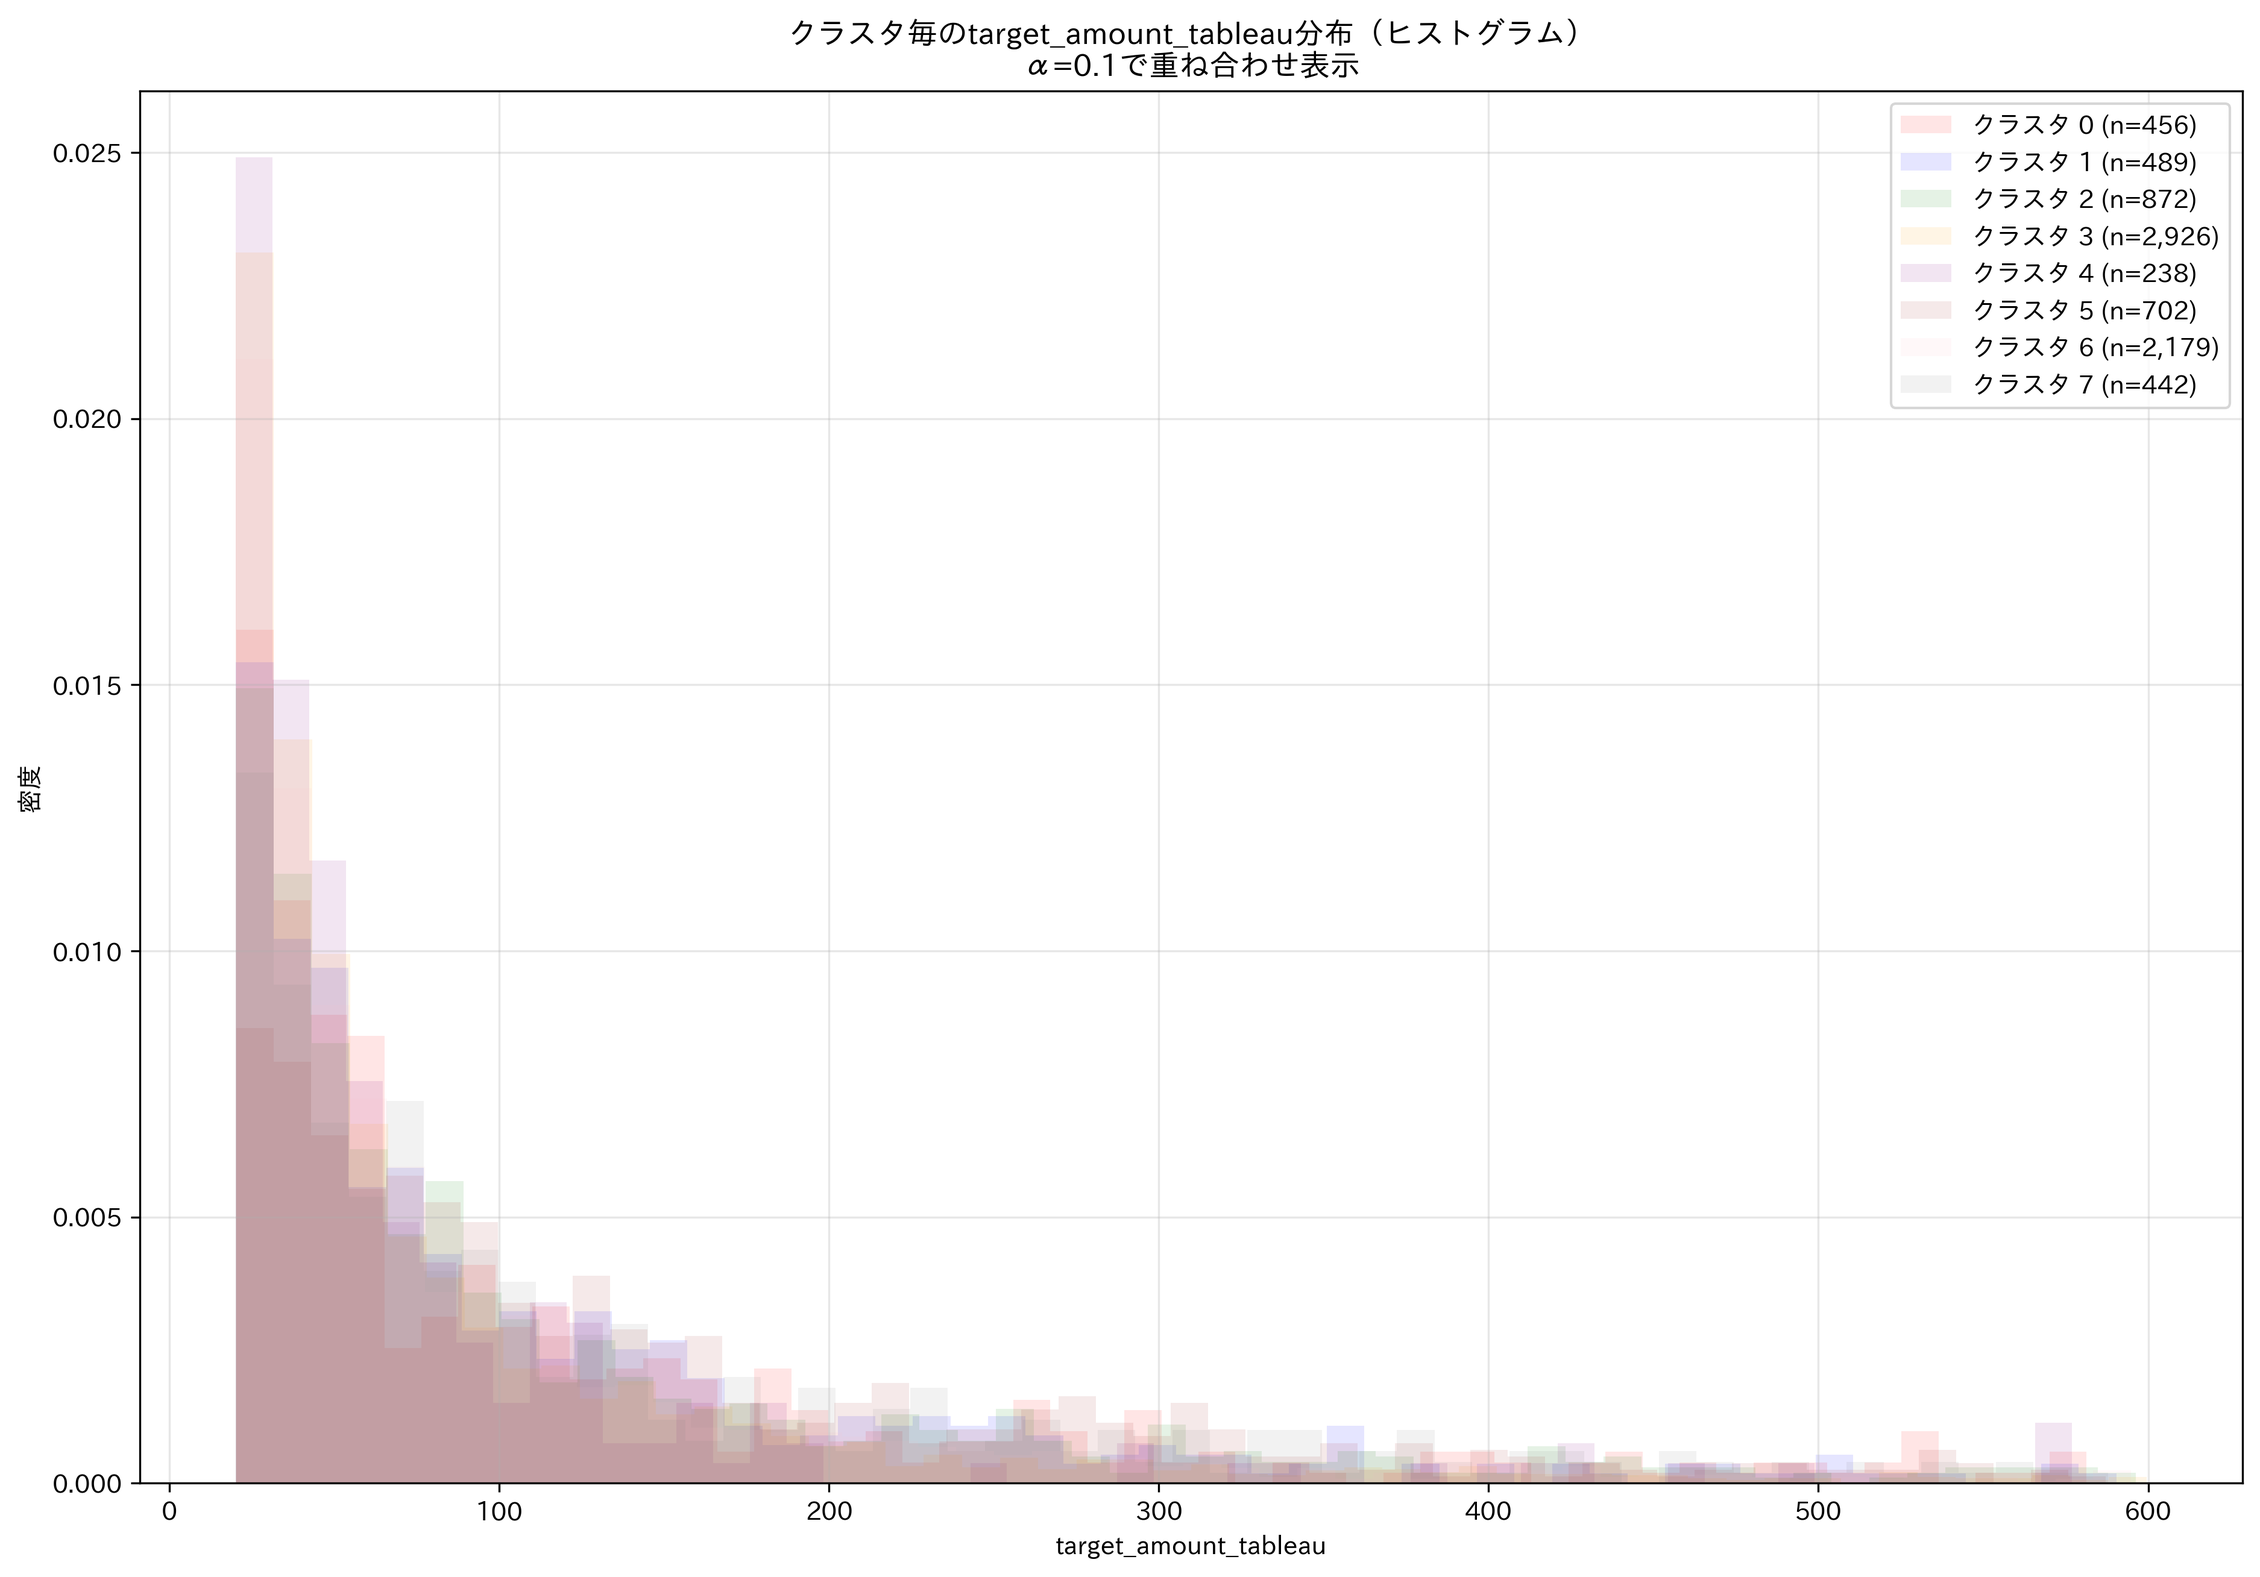
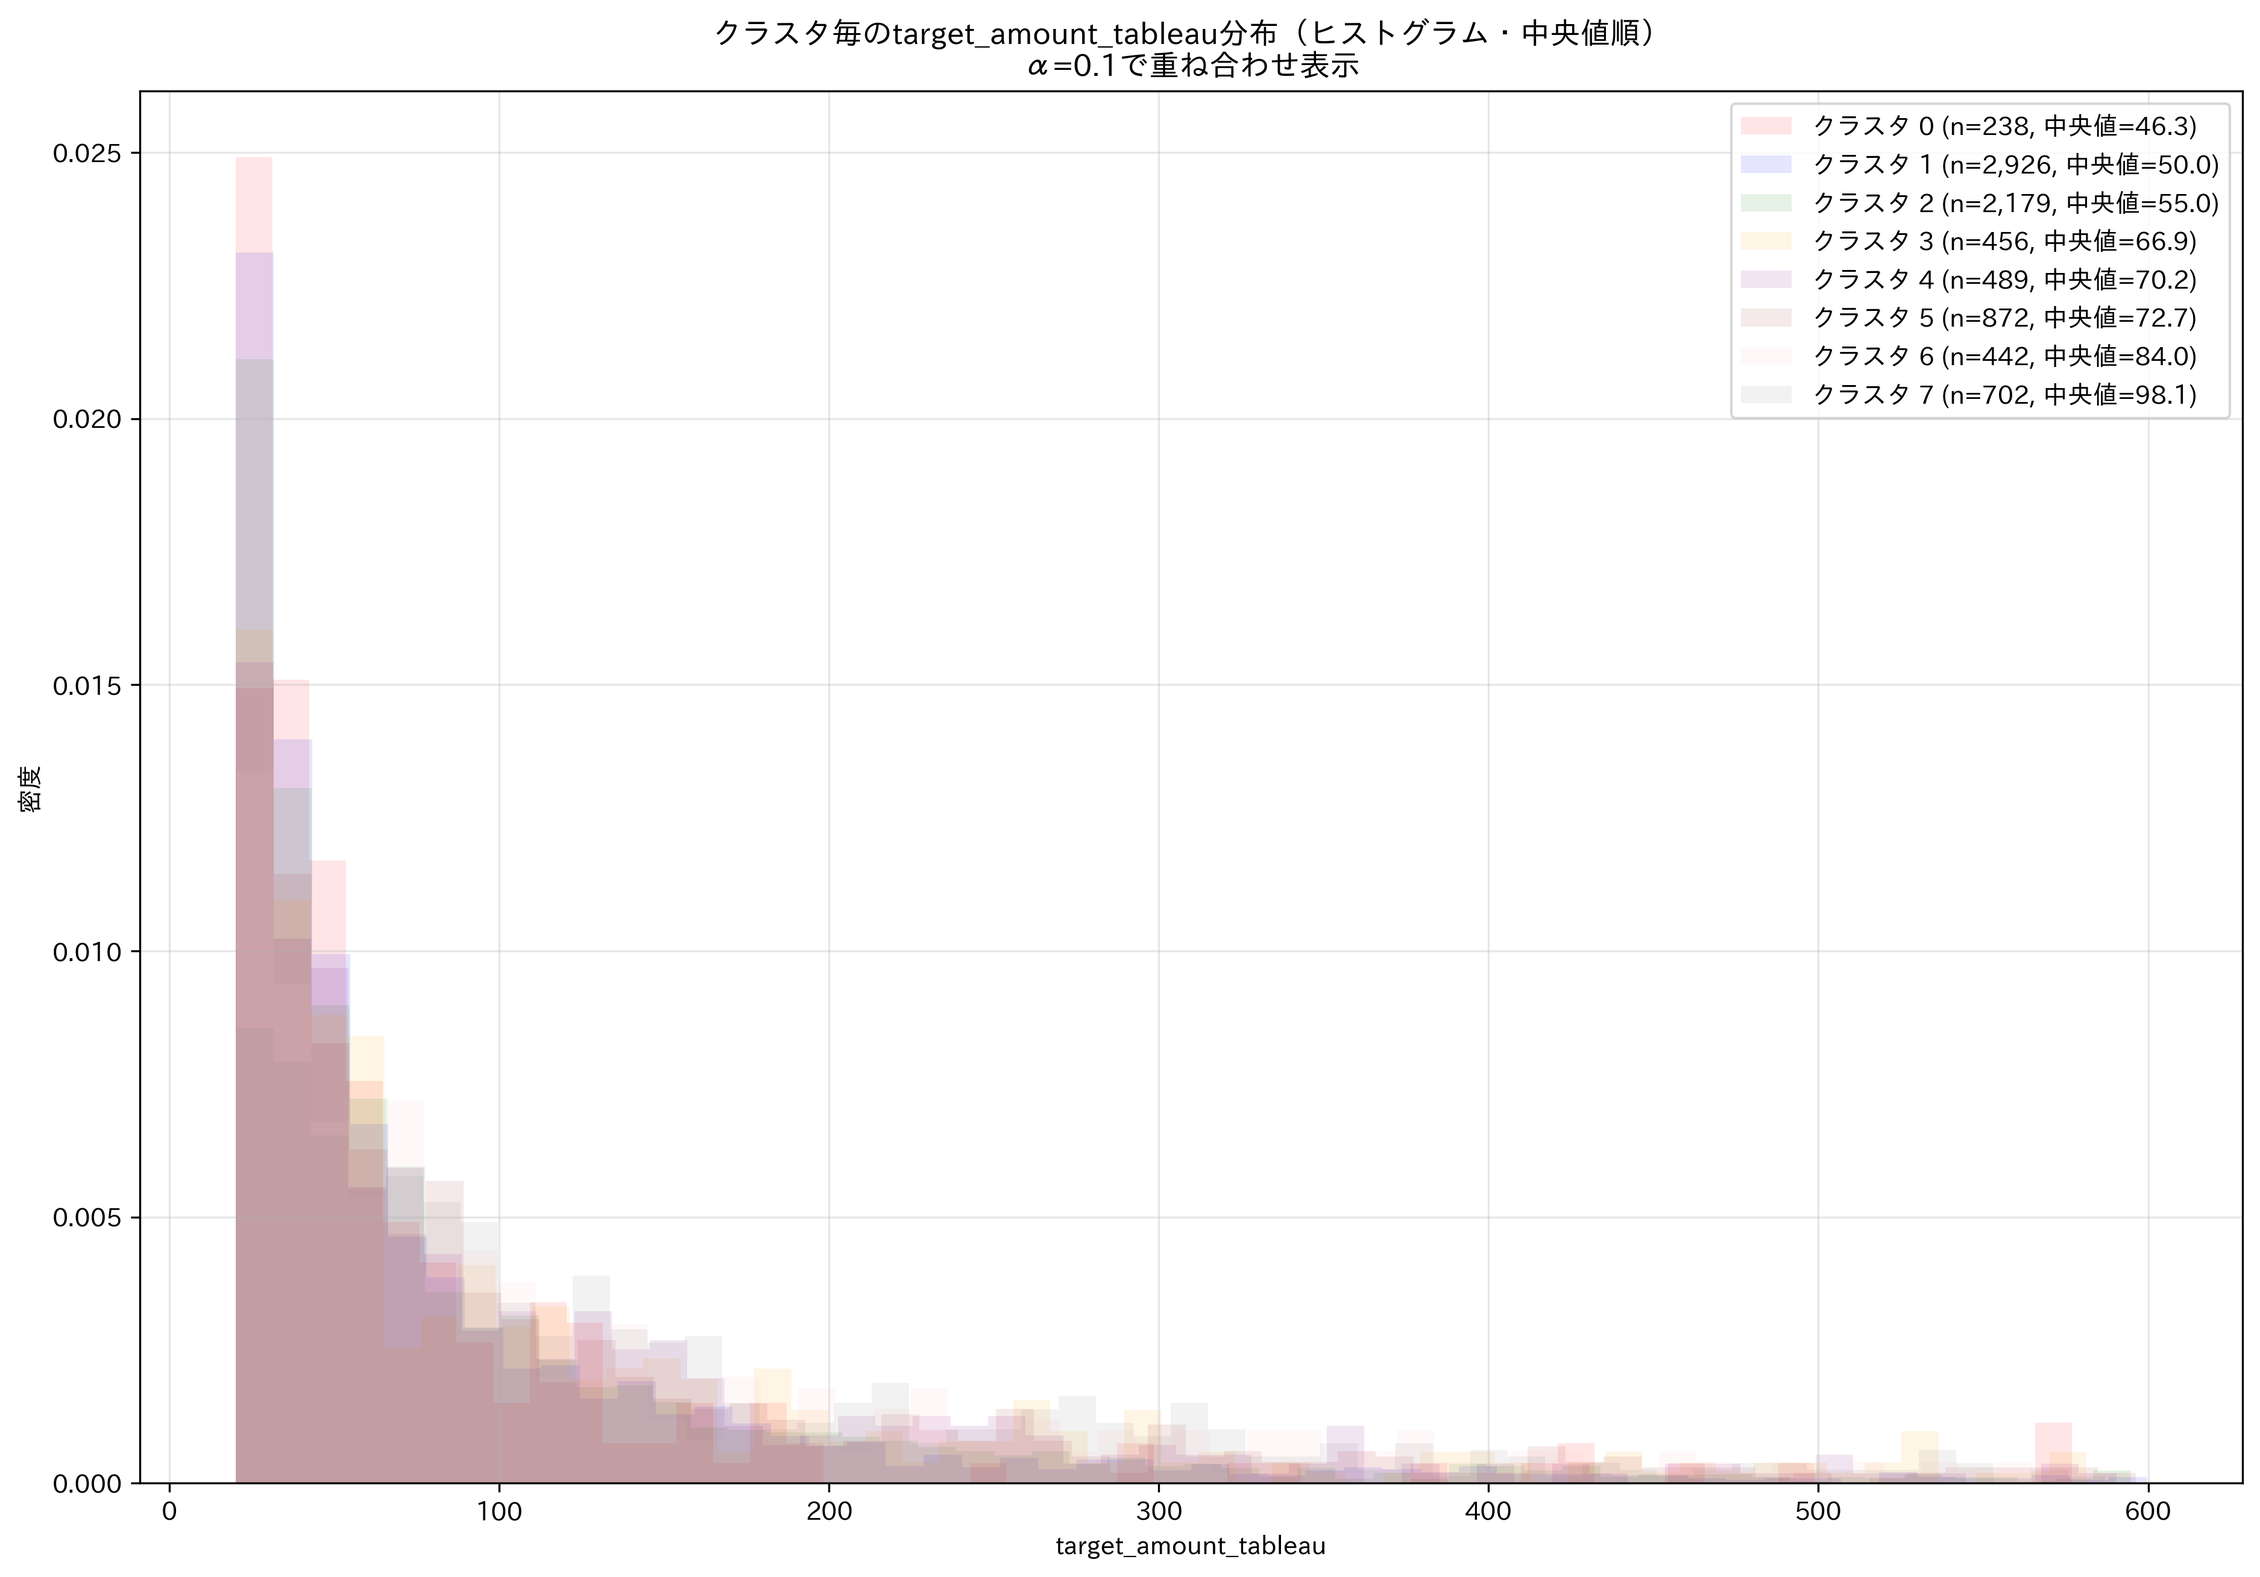
Update cluster analysis with median-sorted clusters and renumbered outputs

diff --git a/cluster_analysis.py b/cluster_analysis.py
@@ -236,10 +236,25 @@ def calculate_percentile_stats(series):
         'max': series.max()
     }
 
-# 各クラスタの統計情報を計算（範囲別）
+# 各クラスタの中央値を計算してソート順を決定
+cluster_medians = df_analysis.groupby('cluster')['target_amount_tableau'].median().sort_values()
+print(f"\n各クラスタの中央値（ソート順）:")
+for cluster_id, median_val in cluster_medians.items():
+    print(f"  クラスタ {cluster_id}: 中央値 = {median_val:.2f}")
+
+# 中央値が小さい順に新しいクラスタ番号を割り当て
+median_rank = {original_id: new_id for new_id, original_id in enumerate(cluster_medians.index)}
+print(f"\n新しいクラスタ番号の割り当て:")
+for original_id, new_id in median_rank.items():
+    print(f"  元クラスタ {original_id} → 新クラスタ {new_id}")
+
+# 新しいクラスタ番号をデータフレームに追加
+df_analysis['cluster_renumbered'] = df_analysis['cluster'].map(median_rank)
+
+# 各クラスタの統計情報を計算（範囲別）- 新しい番号順で
 cluster_range_stats = {}
-for cluster_id in sorted(df_analysis['cluster'].unique()):
-    cluster_data = df_analysis[df_analysis['cluster'] == cluster_id]
+for cluster_id in sorted(df_analysis['cluster_renumbered'].unique()):
+    cluster_data = df_analysis[df_analysis['cluster_renumbered'] == cluster_id]
     cluster_range_stats[cluster_id] = {}
     
     # 各範囲での統計を計算
@@ -248,10 +263,12 @@ for cluster_id in sorted(df_analysis['cluster'].unique()):
         if len(range_data) > 0:
             cluster_range_stats[cluster_id][range_name] = calculate_percentile_stats(range_data)
 
-# 結果を整理して表示
-print("\n各クラスタ・範囲別のtarget_amount_tableau統計情報:")
+# 結果を整理して表示（新しい番号順）
+print("\n各クラスタ・範囲別のtarget_amount_tableau統計情報（中央値順）:")
 for cluster_id in sorted(cluster_range_stats.keys()):
-    print(f"\n【クラスタ {cluster_id}】")
+    cluster_data = df_analysis[df_analysis['cluster_renumbered'] == cluster_id]
+    median_val = cluster_data['target_amount_tableau'].median()
+    print(f"\n【クラスタ {int(cluster_id)}】（中央値: {median_val:.2f}）")
     for range_name in sorted(cluster_range_stats[cluster_id].keys()):
         stats = cluster_range_stats[cluster_id][range_name]
         print(f"  {range_name}: データ数={stats['データ数']:,}, 平均={stats['平均']:.2f}, 中央値={stats['中央値']:.2f}")
@@ -266,12 +283,12 @@ for range_name in sorted(df['amount_range'].unique()):
         stats = overall_range_stats[range_name]
         print(f"{range_name}: データ数={stats['データ数']:,}, 平均={stats['平均']:.2f}, 中央値={stats['中央値']:.2f}")
 
-# 統計情報をCSVファイルに保存
-# クラスタ別統計
+# 統計情報をCSVファイルに保存（新しい番号順）
+# クラスタ別統計（新しい番号順）
 cluster_stats_df = pd.DataFrame()
-for cluster_id in sorted(df_analysis['cluster'].unique()):
-    cluster_data = df_analysis[df_analysis['cluster'] == cluster_id]['target_amount_tableau']
-    cluster_stats_df[f'クラスタ_{cluster_id}'] = calculate_percentile_stats(cluster_data)
+for cluster_id in sorted(df_analysis['cluster_renumbered'].unique()):
+    cluster_data = df_analysis[df_analysis['cluster_renumbered'] == cluster_id]['target_amount_tableau']
+    cluster_stats_df[f'クラスタ_{int(cluster_id)}'] = calculate_percentile_stats(cluster_data)
 
 cluster_stats_df.to_csv(os.path.join(results_folder, 'cluster_target_amount_stats.csv'), encoding='utf-8-sig')
 print(f"\nクラスタ統計情報を '{results_folder}/cluster_target_amount_stats.csv' に保存しました。")
@@ -280,6 +297,19 @@ print(f"\nクラスタ統計情報を '{results_folder}/cluster_target_amount_st
 range_stats_df = pd.DataFrame(overall_range_stats).T
 range_stats_df.to_csv(os.path.join(results_folder, 'range_target_amount_stats.csv'), encoding='utf-8-sig')
 print(f"範囲別統計情報を '{results_folder}/range_target_amount_stats.csv' に保存しました。")
+
+# クラスタ番号変更マッピングを保存
+mapping_df = pd.DataFrame({
+    '元クラスタ番号': list(median_rank.keys()),
+    '新クラスタ番号': list(median_rank.values()),
+    '中央値': [df_analysis[df_analysis['cluster'] == orig_id]['target_amount_tableau'].median() 
+               for orig_id in median_rank.keys()],
+    'データ数': [len(df_analysis[df_analysis['cluster'] == orig_id]) 
+                for orig_id in median_rank.keys()]
+}).sort_values('新クラスタ番号')
+
+mapping_df.to_csv(os.path.join(results_folder, 'cluster_renumbering_mapping.csv'), index=False, encoding='utf-8-sig')
+print(f"クラスタ番号変更マッピングを '{results_folder}/cluster_renumbering_mapping.csv' に保存しました。")
 
 # 各クラスタの分布を可視化（範囲別）
 fig, axes = plt.subplots(2, 2, figsize=(15, 12))
@@ -300,66 +330,70 @@ axes[0,1].set_xlabel('target_amount_tableau')
 axes[0,1].set_ylabel('頻度')
 axes[0,1].legend()
 
-# 3. クラスタ別の散布図（人流 vs target_amount_tableau）
-for cluster_id in sorted(df_analysis['cluster'].unique()):
-    cluster_data = df_analysis[df_analysis['cluster'] == cluster_id]
+# 3. クラスタ別の散布図（人流 vs target_amount_tableau）- 中央値順
+colors = ['red', 'blue', 'green', 'orange', 'purple', 'brown', 'pink', 'gray', 'olive', 'cyan']
+for i, cluster_id in enumerate(sorted(df_analysis['cluster_renumbered'].unique())):
+    cluster_data = df_analysis[df_analysis['cluster_renumbered'] == cluster_id]
+    median_val = cluster_data['target_amount_tableau'].median()
     axes[1,0].scatter(cluster_data['AVG_MONTHLY_POPULATION'], 
                      cluster_data['target_amount_tableau'], 
-                     alpha=0.1, label=f'クラスタ {cluster_id}')
+                     alpha=0.1, color=colors[i], label=f'クラスタ {int(cluster_id)} (中央値:{median_val:.1f})')
 axes[1,0].set_xlabel('AVG_MONTHLY_POPULATION (人流)')
 axes[1,0].set_ylabel('target_amount_tableau')
-axes[1,0].set_title('人流 vs target_amount_tableau（クラスタ別）')
+axes[1,0].set_title('人流 vs target_amount_tableau（クラスタ別・中央値順）')
 axes[1,0].legend()
 
-# 4. クラスタ別の散布図（席数 vs target_amount_tableau）
-for cluster_id in sorted(df_analysis['cluster'].unique()):
-    cluster_data = df_analysis[df_analysis['cluster'] == cluster_id]
+# 4. クラスタ別の散布図（席数 vs target_amount_tableau）- 中央値順
+for i, cluster_id in enumerate(sorted(df_analysis['cluster_renumbered'].unique())):
+    cluster_data = df_analysis[df_analysis['cluster_renumbered'] == cluster_id]
+    median_val = cluster_data['target_amount_tableau'].median()
     axes[1,1].scatter(cluster_data['NUM_SEATS'], 
                      cluster_data['target_amount_tableau'], 
-                     alpha=0.1, label=f'クラスタ {cluster_id}')
+                     alpha=0.1, color=colors[i], label=f'クラスタ {int(cluster_id)} (中央値:{median_val:.1f})')
 axes[1,1].set_xlabel('NUM_SEATS (席数)')
 axes[1,1].set_ylabel('target_amount_tableau')
-axes[1,1].set_title('席数 vs target_amount_tableau（クラスタ別）')
+axes[1,1].set_title('席数 vs target_amount_tableau（クラスタ別・中央値順）')
 axes[1,1].legend()
 
 plt.tight_layout()
 plt.savefig(os.path.join(results_folder, 'cluster_target_amount_analysis.png'), dpi=300, bbox_inches='tight')
 plt.close()
 
-# 範囲別のクラスタ分布を可視化
+# 範囲別のクラスタ分布を可視化（中央値順）
 fig, ax = plt.subplots(figsize=(12, 8))
-cluster_range_counts = df_analysis.groupby(['amount_range', 'cluster']).size().unstack(fill_value=0)
+cluster_range_counts = df_analysis.groupby(['amount_range', 'cluster_renumbered']).size().unstack(fill_value=0)
 cluster_range_counts.plot(kind='bar', ax=ax, stacked=True)
-ax.set_title('各範囲でのクラスタ分布')
+ax.set_title('各範囲でのクラスタ分布（中央値順）')
 ax.set_xlabel('target_amount_tableauの範囲')
 ax.set_ylabel('店舗数')
-ax.legend(title='クラスタ', bbox_to_anchor=(1.05, 1), loc='upper left')
+ax.legend(title='クラスタ（中央値順）', bbox_to_anchor=(1.05, 1), loc='upper left')
 plt.xticks(rotation=45)
 plt.tight_layout()
 plt.savefig(os.path.join(results_folder, 'cluster_distribution_by_range.png'), dpi=300, bbox_inches='tight')
 plt.close()
 
-# クラスタ毎のtarget_amount_tableauのヒストグラム
-print("\n=== クラスタ毎のtarget_amount_tableauヒストグラム作成中 ===")
+# クラスタ毎のtarget_amount_tableauのヒストグラム（中央値順）
+print("\n=== クラスタ毎のtarget_amount_tableauヒストグラム作成中（中央値順） ===")
 plt.figure(figsize=(15, 10))
 
-# 各クラスタのヒストグラムを重ね合わせて表示
+# 各クラスタのヒストグラムを重ね合わせて表示（中央値順）
 colors = ['red', 'blue', 'green', 'orange', 'purple', 'brown', 'pink', 'gray', 'olive', 'cyan']
-for i, cluster_id in enumerate(sorted(df_analysis['cluster'].unique())):
-    cluster_data = df_analysis[df_analysis['cluster'] == cluster_id]['target_amount_tableau']
+for i, cluster_id in enumerate(sorted(df_analysis['cluster_renumbered'].unique())):
+    cluster_data = df_analysis[df_analysis['cluster_renumbered'] == cluster_id]['target_amount_tableau']
+    median_val = cluster_data.median()
     plt.hist(cluster_data, bins=50, alpha=0.1, color=colors[i], 
-             label=f'クラスタ {cluster_id} (n={len(cluster_data):,})', density=True)
+             label=f'クラスタ {int(cluster_id)} (n={len(cluster_data):,}, 中央値={median_val:.1f})', density=True)
 
 plt.xlabel('target_amount_tableau')
 plt.ylabel('密度')
-plt.title('クラスタ毎のtarget_amount_tableau分布（ヒストグラム）\nα=0.1で重ね合わせ表示')
+plt.title('クラスタ毎のtarget_amount_tableau分布（ヒストグラム・中央値順）\nα=0.1で重ね合わせ表示')
 plt.legend()
 plt.grid(True, alpha=0.3)
 plt.savefig(os.path.join(results_folder, 'cluster_histogram_overlay.png'), dpi=300, bbox_inches='tight')
 plt.close()
 
-# 各クラスタを個別のサブプロットで表示
-n_clusters = len(df_analysis['cluster'].unique())
+# 各クラスタを個別のサブプロットで表示（中央値順）
+n_clusters = len(df_analysis['cluster_renumbered'].unique())
 n_cols = 3
 n_rows = (n_clusters + n_cols - 1) // n_cols
 fig, axes = plt.subplots(n_rows, n_cols, figsize=(18, 6*n_rows))
@@ -367,13 +401,14 @@ if n_rows == 1:
     axes = axes.reshape(1, -1)
 axes = axes.flatten()
 
-for i, cluster_id in enumerate(sorted(df_analysis['cluster'].unique())):
-    cluster_data = df_analysis[df_analysis['cluster'] == cluster_id]['target_amount_tableau']
+for i, cluster_id in enumerate(sorted(df_analysis['cluster_renumbered'].unique())):
+    cluster_data = df_analysis[df_analysis['cluster_renumbered'] == cluster_id]['target_amount_tableau']
+    median_val = cluster_data.median()
     
     axes[i].hist(cluster_data, bins=30, alpha=0.1, color=colors[i], edgecolor='black')
     axes[i].set_xlabel('target_amount_tableau')
     axes[i].set_ylabel('頻度')
-    axes[i].set_title(f'クラスタ {cluster_id}\n(n={len(cluster_data):,}, 平均={cluster_data.mean():.1f})')
+    axes[i].set_title(f'クラスタ {int(cluster_id)}\n(n={len(cluster_data):,}, 中央値={median_val:.1f})')
     axes[i].grid(True, alpha=0.3)
 
 # 余分なサブプロットは非表示
@@ -384,11 +419,12 @@ plt.tight_layout()
 plt.savefig(os.path.join(results_folder, 'cluster_histogram_individual.png'), dpi=300, bbox_inches='tight')
 plt.close()
 
-# クラスタの特徴をまとめる
-print("\n=== 各クラスタの特徴まとめ ===")
-for cluster_id in sorted(df_analysis['cluster'].unique()):
-    cluster_data = df_analysis[df_analysis['cluster'] == cluster_id]
-    print(f"\n【クラスタ {cluster_id}】")
+# クラスタの特徴をまとめる（中央値順）
+print("\n=== 各クラスタの特徴まとめ（中央値順） ===")
+for cluster_id in sorted(df_analysis['cluster_renumbered'].unique()):
+    cluster_data = df_analysis[df_analysis['cluster_renumbered'] == cluster_id]
+    median_val = cluster_data['target_amount_tableau'].median()
+    print(f"\n【クラスタ {int(cluster_id)}】（中央値: {median_val:.2f}）")
     print(f"  データ数: {len(cluster_data):,}店舗")
     print(f"  人流の平均: {cluster_data['AVG_MONTHLY_POPULATION'].mean():.0f}")
     print(f"  席数の平均: {cluster_data['NUM_SEATS'].mean():.0f}")
